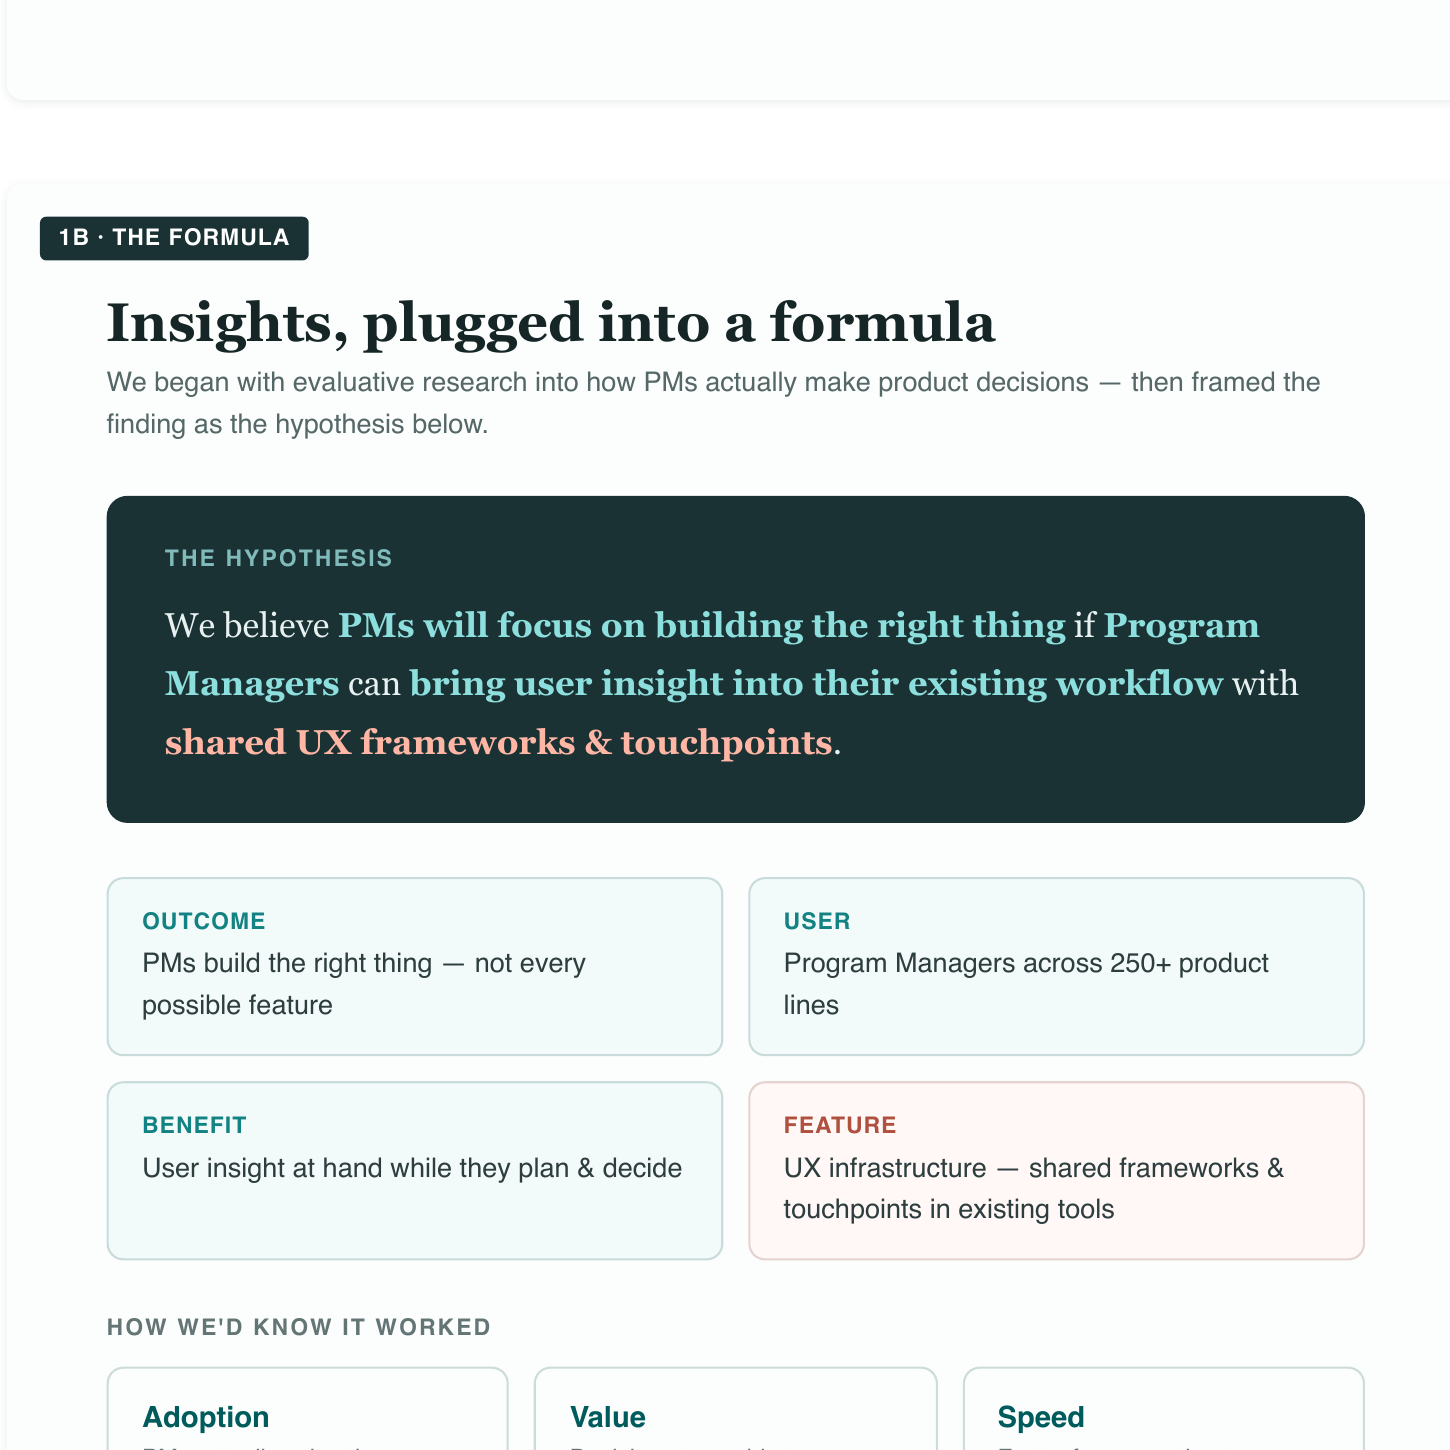
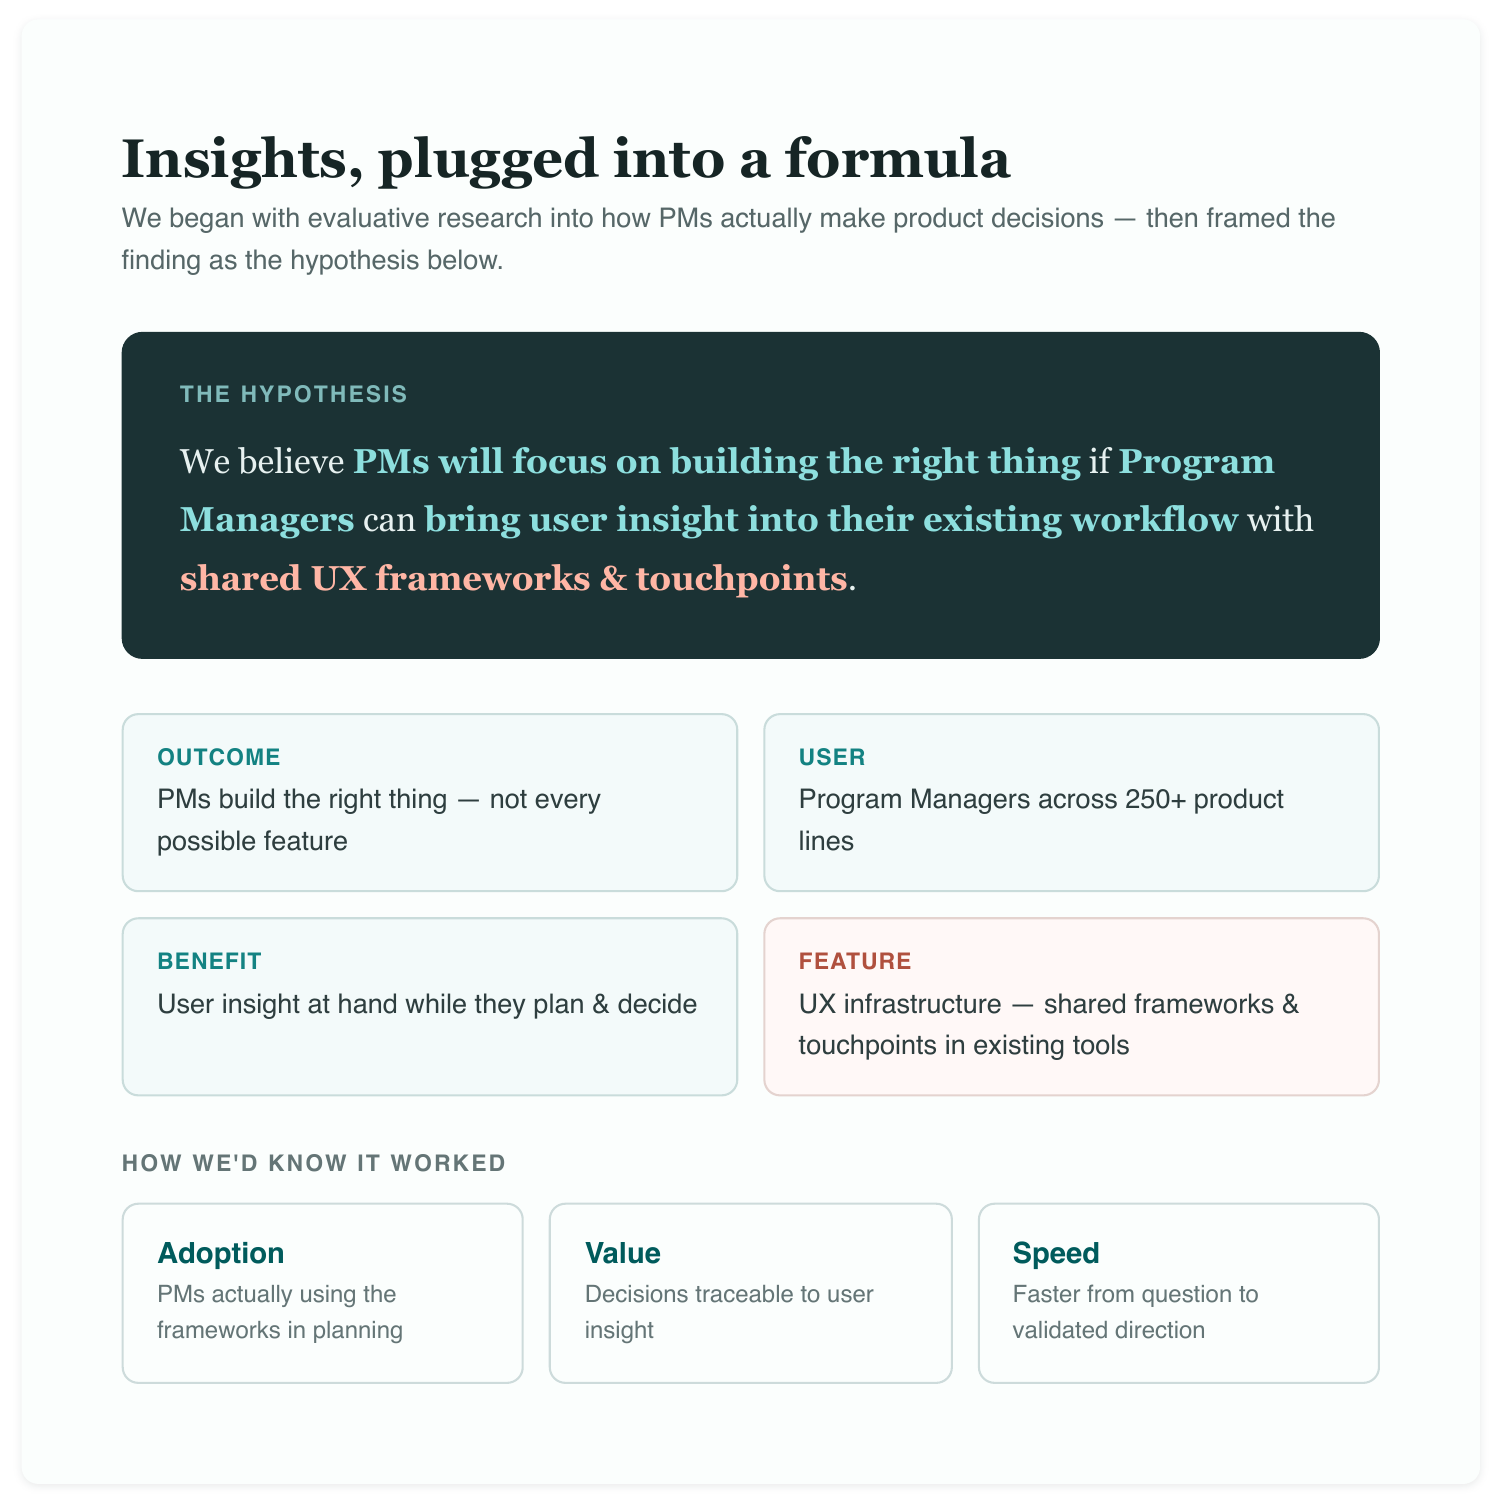
feat(design-thinking): correct formula image and compact persona card layout, remove hyphens

diff --git a/src/app/work/design-thinking/page.tsx b/src/app/work/design-thinking/page.tsx
@@ -17,7 +17,7 @@ import {
 const sections = [
   { id: "overview", label: "Overview" },
   { id: "research", label: "Research & Insights" },
-  { id: "solutions", label: "Solutions" },
+  { id: "solutions", label: "Prioritisation & Persona" },
   { id: "results", label: "Validation & Results" },
 ];
 
@@ -259,12 +259,12 @@ export default function DesignThinkingCaseStudy() {
       {/* --- SOLUTIONS --- */}
       <CaseStudySection
         id="solutions"
-        label="Solutions"
-        heading="Prioritisation, Persona & Concepts"
+        label="Prioritisation & Persona"
+        heading="Prioritisation & Persona"
       >
         <h3>Prioritisation</h3>
         <p>
-          I categorized findings into Epics — not just for our team's use, but to give Product and
+          I categorized findings into Epics not just for our team's use, but to give Product and
           Engineering leadership visibility into what needed fixing and in what order.
         </p>
         <p>
@@ -277,7 +277,7 @@ export default function DesignThinkingCaseStudy() {
         </ul>
         <p>
           From this, we established that the <strong>PM-UX Playbook</strong> was the highest-priority
-          first delivery — highest severity score, moderate engineering lift, and foundational to
+          first delivery, highest severity score, moderate engineering lift, and foundational to
           everything else. The Buddy-Up programme and Community Forum were sequenced to follow,
           since they depended on the Playbook existing first.
         </p>
@@ -285,16 +285,12 @@ export default function DesignThinkingCaseStudy() {
         <h3 style={{ marginTop: "40px" }}>Narrowing the Scope: Meet Rajesh</h3>
         <p>
           With the problem defined and priorities set, I synthesized the research into <strong>&quot;Rajesh&quot;
-          — a composite persona</strong> built from behavioral patterns and direct quotes across the
+          , a composite persona</strong> built from behavioral patterns and direct quotes across the
           15 interviews.
         </p>
         <p>
-          Rajesh wasn't built to be decorative. He was built to anchor every solution decision:
+          Rajesh wasn't built to be decorative. He was built to anchor every solution decision.
         </p>
-
-        <Blockquote
-          text="If Rajesh can use this in the 5 minutes between his standup and his backlog review, it belongs in the solution. If he needs a 2-hour workshop, it doesn't."
-        />
 
         <PersonaCardActual />
 
@@ -305,51 +301,6 @@ export default function DesignThinkingCaseStudy() {
           <PersonaProgress label="UX Vocabulary" value={30} />
           <PersonaProgress label="User Empathy" value={45} />
         </div>
-
-        <h3 style={{ marginTop: "40px" }}>Ideation — Four Solutions from Co-Creation</h3>
-        <p>
-          I designed and facilitated <strong>two co-creation workshops</strong> with PMs, UX leads,
-          and stakeholders. The format was structured divergence followed by hard convergence: we
-          generated <strong>40+ ideas</strong> and then evaluated them on a <strong>Value × Effort matrix</strong>
-          against Rajesh's constraints. Four concepts survived:
-        </p>
-
-        <div style={{ display: "grid", gridTemplateColumns: "1fr 1fr", gap: "24px", margin: "24px 0" }}>
-          <div style={{ background: "var(--color-bg-card)", padding: "24px", borderRadius: "12px", border: "1px solid var(--color-border)" }}>
-            <h4 style={{ margin: "0 0 8px 0" }}>1. PM-UX Playbook</h4>
-            <p style={{ margin: 0, fontSize: "15px", color: "var(--color-text-secondary)", lineHeight: "1.4" }}>
-              Template-driven heuristic guides embedded in existing PM workflows (Jira, Confluence). Not a training course — a &quot;use this when you're in this situation&quot; reference.
-            </p>
-          </div>
-          <div style={{ background: "var(--color-bg-card)", padding: "24px", borderRadius: "12px", border: "1px solid var(--color-border)" }}>
-            <h4 style={{ margin: "0 0 8px 0" }}>2. Buddy-Up Programme</h4>
-            <p style={{ margin: 0, fontSize: "15px", color: "var(--color-text-secondary)", lineHeight: "1.4" }}>
-              Quarterly UX/PM collaboration pairs. Structured to match PMs with a UX counterpart based on their current product area, not random assignment.
-            </p>
-          </div>
-          <div style={{ background: "var(--color-bg-card)", padding: "24px", borderRadius: "12px", border: "1px solid var(--color-border)" }}>
-            <h4 style={{ margin: "0 0 8px 0" }}>3. Community Forum</h4>
-            <p style={{ margin: 0, fontSize: "15px", color: "var(--color-text-secondary)", lineHeight: "1.4" }}>
-              Internal platform for sharing templates, real wins, and peer Q&A. Designed to spread adoption organically rather than through mandate.
-            </p>
-          </div>
-          <div style={{ background: "var(--color-bg-card)", padding: "24px", borderRadius: "12px", border: "1px solid var(--color-border)" }}>
-            <h4 style={{ margin: "0 0 8px 0" }}>4. Micro-Learning Modules</h4>
-            <p style={{ margin: 0, fontSize: "15px", color: "var(--color-text-secondary)", lineHeight: "1.4" }}>
-              5-minute UX concept drops via Slack and Jira integrations — meeting PMs where they already are, not pulling them out of their flow.
-            </p>
-          </div>
-        </div>
-
-        <p>
-          Each solution was explicitly traceable back to a finding from research. The Playbook addressed the language gap. The Forum addressed the support gap. Timing was addressed by embedding touchpoints <em>into</em> existing workflows rather than creating new ones.
-        </p>
-
-        <SkillSpotlight
-          skill="Workshop Facilitation & Co-creation"
-          description="Designed and facilitated co-creation workshops using Value x Effort matrix with cross-functional PM-UX-Tech cohorts."
-          evidence="Co-created and launched 4 solutions directly mapped to structural research insights."
-        />
       </CaseStudySection>
 
       {/* --- VALIDATION & RESULTS --- */}
@@ -361,7 +312,7 @@ export default function DesignThinkingCaseStudy() {
         <h3>Validating the Designs</h3>
         <p>
           Rather than lab-based usability testing, I tested during <strong>actual monthly planning
-          workshops</strong> — the real context where the tools would be used.
+          workshops</strong>, the real context where the tools would be used.
         </p>
 
         <p><strong>What we tested:</strong> The PM-UX Playbook prototype (navigation, contextual prompts, template accessibility)</p>
@@ -381,7 +332,7 @@ export default function DesignThinkingCaseStudy() {
         <p>
           That single insight drove the most important design change: we merged the &quot;Learn&quot;
           and &quot;Templates&quot; sections into a single <strong>workflow-staged &quot;Resources&quot; hub</strong>,
-          organized by when in the PM process you'd reach for it — not by content category.
+          organized by when in the PM process you'd reach for it, not by content category.
         </p>
 
         <div style={{ display: "grid", gridTemplateColumns: "1fr 1fr", gap: "24px", margin: "24px 0" }}>
@@ -451,7 +402,7 @@ export default function DesignThinkingCaseStudy() {
                 <strong>Community drives adoption faster than mandates.</strong> The forum scaled because PMs shared real wins with peers who understood their context. No campaign required.
               </li>
               <li style={{ marginBottom: "12px", lineHeight: "1.5" }}>
-                <strong>Contextual research reveals what surveys cannot.</strong> Shadowing PMs in actual planning meetings surfaced friction that interview questions alone would never have found — because PMs had normalized it.
+                <strong>Contextual research reveals what surveys cannot.</strong> Shadowing PMs in active planning meetings surfaced friction that interview questions alone would never have found because PMs had normalized it.
               </li>
             </ul>
           </div>
@@ -459,7 +410,7 @@ export default function DesignThinkingCaseStudy() {
             <h3>What I'd Do Differently</h3>
             <ul style={{ paddingLeft: "20px" }}>
               <li style={{ marginBottom: "12px", lineHeight: "1.5" }}>
-                <strong>Start stakeholder mapping earlier.</strong> I mapped the ecosystem during Discover, but involving Engineering and Leadership in the synthesis phase — not just the findings readout — would have accelerated buy-in.
+                <strong>Start stakeholder mapping earlier.</strong> I mapped the ecosystem during Discover, but involving Engineering and Leadership in the synthesis phase, not just the findings readout, would have accelerated buy-in.
               </li>
               <li style={{ marginBottom: "12px", lineHeight: "1.5" }}>
                 <strong>Quantify the severity framework in real time.</strong> I scored issues after fieldwork. Scoring during synthesis sessions with the team would have made prioritisation faster and more collaborative.

diff --git a/src/components/casestudy/CaseStudyContent.module.css b/src/components/casestudy/CaseStudyContent.module.css
@@ -518,7 +518,7 @@
   background: #f8f9fa;
   border-radius: 16px;
   overflow: hidden;
-  height: 100%;
+  height: auto;
 }
 
 .personaBoxTitle {
@@ -530,7 +530,7 @@
   font-weight: 700;
   text-align: left;
   padding: 24px 24px 0;
-  margin: 0 0 16px 0;
+  margin: 0 0 8px 0;
 }
 
 .personaListMain {
@@ -539,11 +539,11 @@
   list-style: none;
   font-size: 14px;
   color: #444;
-  line-height: 1.6;
+  line-height: 1.5;
 }
 
 .personaListMain li {
-  margin-bottom: 12px;
+  margin-bottom: 6px;
   position: relative;
   padding-left: 20px;
 }
@@ -557,10 +557,10 @@
   top: -1px;
 }
 
-@media (max-width: 768px) {
+@media (max-width: 1024px) {
   .personaCardWrapper {
     flex-direction: column;
-    padding: 16px;
+    padding: 24px;
   }
   .personaSidebar {
     width: 100%;